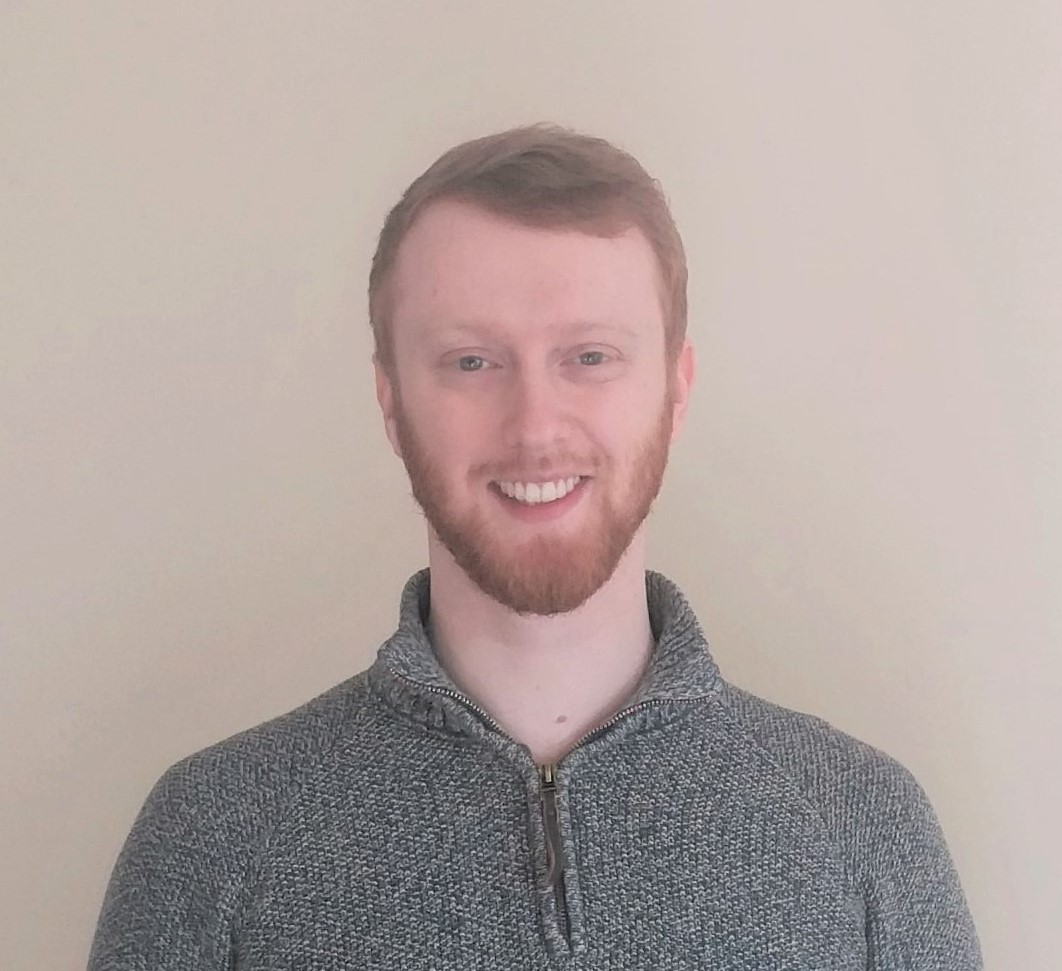
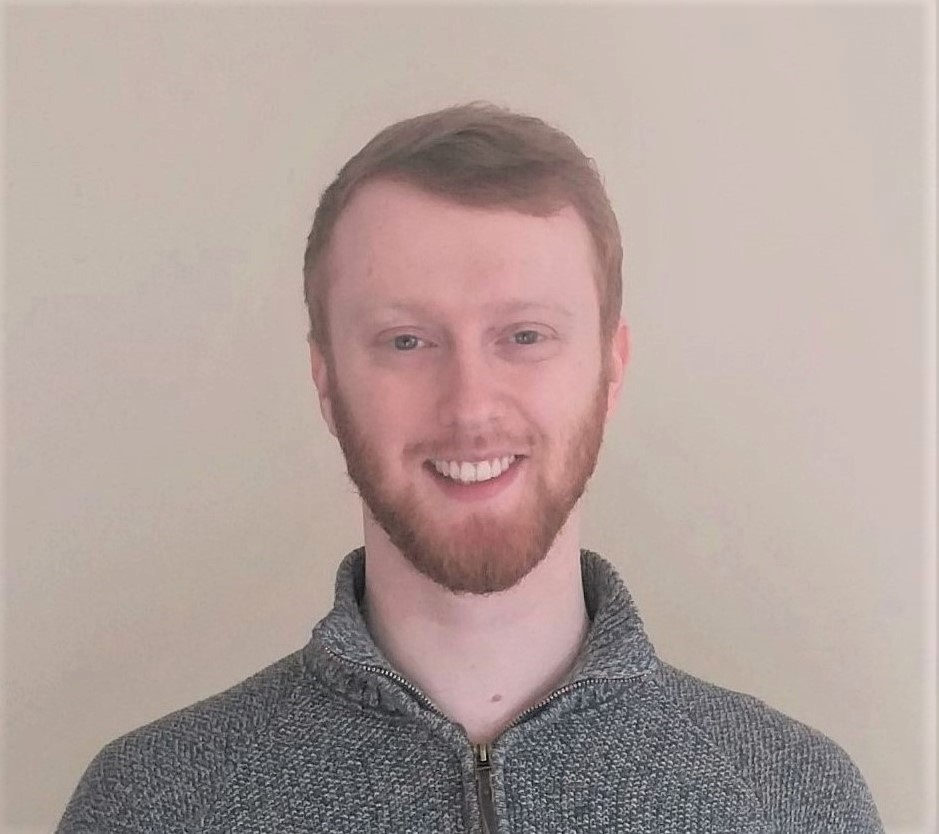
inverse skin for pages

Changed region(s): [[0.0309, 0.1247, 0.9574, 1.0], [0.5868, 0.1559, 0.6177, 0.1871]]

diff --git a/_sass/custom/classes.scss b/_sass/custom/classes.scss
@@ -3,10 +3,9 @@ img.framec {
   display: block;
   margin-left: auto;
   margin-right: auto;
-  border: 4px solid #fff;
-  border-radius: 8px;
+  border: 5px solid #fff;
   width: 300px;
-  box-shadow: 0 0 12px 0px rgba(0,0,0,0.25)
+  box-shadow: 0 0 12px 0px rgba(0.04,0.06,0.07,0.25)
 }
 
 /* Custom blockquote style with slimmer margins*/
@@ -19,7 +18,7 @@ blockquote.trimb {
 html {
   /* apply a natural box layout model to all elements */
   box-sizing: border-box;
-  background-color: $background-color;
+  background-color: transparent;
   font-size: 16px;
 
   @include breakpoint($medium) {
@@ -56,4 +55,13 @@ aside.sidebar__right {
   &.sticky {
     top: 5.75em;
   }
+}
+
+.site-title {
+    padding-left: 0.5em;
+}
+
+thead {
+    background-color: mix(#fff, $primary-color, 90%);
+    color: $dark-gray;
 }

diff --git a/_sass/custom/skin.scss b/_sass/custom/skin.scss
@@ -21,7 +21,7 @@ $primary-color: #081214 !default;
 $success-color : #0092ca !default;
 $warning-color : #e67e22 !default;
 $danger-color : #c0392b !default;
-$info-color : $light-gray !default;
+$info-color : $primary-color !default;
 $focus-color: $success-color !default;
 $active-color: mix(#fff, $primary-color, 90%) !default;
 
@@ -54,7 +54,7 @@ $base0f: #ff5370 !default;
 $body-color: #fff !default;
 
 .page__footer {
-  color: #fff !important; // override
+  color: $background-color !important; // override
 }
 
 .author__urls.social-icons .fa,

diff --git a/assets/css/darknav.css b/assets/css/darknav.css
@@ -1,0 +1,27 @@
+/* ==========================================================================
+   Dark navigation bar
+   ========================================================================== */
+
+.masthead,
+.masthead nav {
+    background-color: #081214;
+}
+
+.masthead nav a {
+    color: #fff;
+}
+.masthead nav a:hover {
+    color: #bcbcc3;
+}
+
+.masthead nav button {
+    color: #fff;
+}
+
+.masthead nav button:hover {
+    color: #bcbcc3;
+}
+
+.masthead a.site-logo img {
+    border: 2.25px solid #fff;
+}

diff --git a/_includes/head/custom.html b/_includes/head/custom.html
@@ -9,4 +9,10 @@
 <link rel="shortcut icon" type="image/x-icon" href="/assets/favicon/favicon.ico">
 <link rel="manifest" href="/assets/favicon/site.webmanifest">
 
+{% if page.custom_css %}
+    {% for stylesheet in page.custom_css %}
+        <link rel="stylesheet" href="{{ site.baseurl }}/assets/css/{{ stylesheet }}.css">
+    {% endfor %}
+{% endif %}
+
 <!-- end custom head snippets -->

diff --git a/_pages/education.md b/_pages/education.md
@@ -1,12 +1,11 @@
 ---
 permalink: /about/education/
-layout: single
 toc: true
 toc_sticky: true
 toc_label: "&nbsp;&nbsp;Education"
 toc_icon: "graduation-cap"
-author_profile: true
 title: "Will's education"
+custom_css: darknav
 ---
 
 See also: [**Skills**](/about/skills/)
@@ -20,7 +19,7 @@ See also: [**Skills**](/about/skills/)
 <p style="margin-top: 1.25em; margin-bottom: 1em;" markdown="span">**Research component**</p>
 <blockquote class="trimb" markdown="block">
 <p style="margin-top: 1.25em; margin-bottom: 1em;" markdown="span">*Large-Scale Trajectory Clustering*</p>
-Comparison of existing and novel techniques for clustering trajectories, *i.e.* lists of points in *n*-dimensional space (perhaps with metadata). Development of a hierarchical probabilistic autoregression model for destination prediction.
+Comparison of existing and novel techniques for clustering trajectories, *i.e.* lists of points in *n*-dimensional space (perhaps with metadata). Development of a hierarchical probabilistic autoregression model for taxi destination prediction.
 
 Supervisor: [Dr Ricardo Silva](https://www.ucl.ac.uk/statistics/people/ricardosilva)
 </blockquote>

diff --git a/_pages/skills.md b/_pages/skills.md
@@ -1,12 +1,11 @@
 ---
 permalink: /about/skills/
-layout: single
 toc: true
 toc_sticky: true
 toc_label: "&nbsp;&nbsp;Skills"
 toc_icon: "pencil-ruler"
-author_profile: true
 title: "Will's skills"
+custom_css: darknav
 ---
 
 See also: [**Education**](/about/education/)
@@ -164,12 +163,11 @@ Softer than communication, collaboration is all about *alignment*. That is, gett
 
 The following examples are where I feel like a positive contributor to collaborative working.
 
-**Division of labour**  
 **Support**  
 **Mentorship & growth**  
 **Feedback & advocacy**  
 **Sharing & cultural health**  
-**Coordination of ideas**  
+**Coordination of effort & ideas**  
 **Evolving systems**  
 **Community engagement**  
 </blockquote>

diff --git a/_pages/404.md b/_pages/404.md
@@ -1,10 +1,11 @@
 ---
 permalink: /404.html
 layout: single
-author_profile: true
+author_profile: false
 sitemap: false
 excerpt: "Page not found. It may have existed in the past, or the URL may be incorrect."
 title: "Page Not Found"
+custom_css: darknav
 ---
 
 Sorry, but the page you were trying to view does not exist --- the URL may be

diff --git a/_pages/about.md b/_pages/about.md
@@ -6,6 +6,7 @@ toc_label: "&nbsp;&nbsp;About Will"
 toc_icon: "user-alt"
 author_profile: true
 title: "About Will"
+custom_css: darknav
 ---
 
 If you need to get in touch with me, please use the [**contact form**](/contact/).

diff --git a/_pages/contact-thanks.md b/_pages/contact-thanks.md
@@ -3,6 +3,7 @@ permalink: /contact/thanks/
 layout: single
 author_profile: true
 title: "Thank you"
+custom_css: darknav
 ---
 Thank you for your message. I have been notified, and look forward to
 reading it.

diff --git a/_pages/faq.md b/_pages/faq.md
@@ -1,0 +1,10 @@
+---
+permalink: /faq/
+author_profile: false
+title: "FAQ"
+custom_css: darknav
+---
+
+## <a name="mathematical-thinking"></a> Mafematical thinking
+
+## <a name="humanizing"></a> Oomanizing

diff --git a/_pages/contact.md b/_pages/contact.md
@@ -3,6 +3,7 @@ permalink: /contact/
 layout: single
 author_profile: true
 title: "Contact Will"
+custom_css: darknav
 ---
 
 <script type="text/javascript">var submitted=false;</script>

diff --git a/_pages/home.md b/_pages/home.md
@@ -2,6 +2,7 @@
 layout: splash
 permalink: /
 title: "Bayesian Saddles"
+logo: /assets/images/logo.png
 header:
   overlay_color: "#081214"
   overlay_filter: rbga(0, 0, 0, 0.4)
